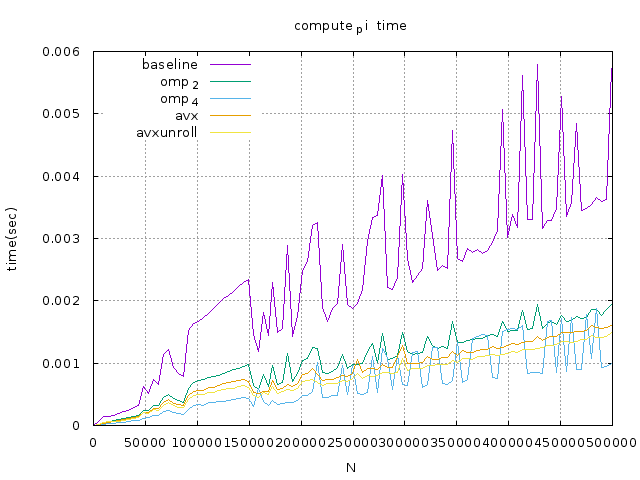
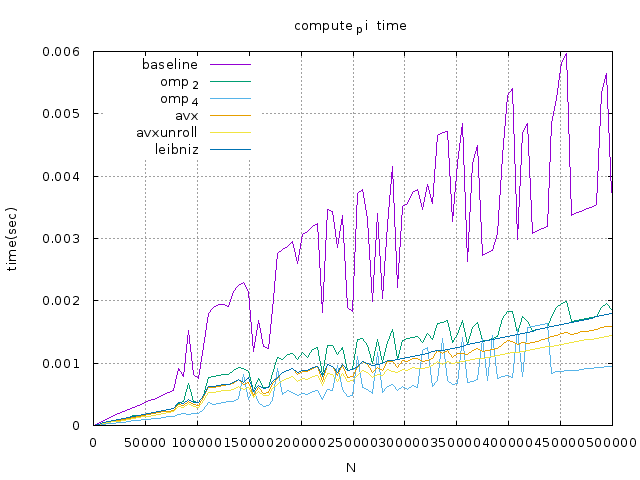
add leibniz

diff --git a/benchmark_clock_gettime.c b/benchmark_clock_gettime.c
@@ -79,7 +79,21 @@ int main(int argc, char const *argv[])
         (end.tv_nsec - start.tv_nsec)/ONE_SEC;
     } 
     printf("%lf,",compute_ci(compute_time));
-    printf("%.16lf\n", compute_error(compute_pi_avx_unroll(N)));
+    printf("%.16lf,", compute_error(compute_pi_avx_unroll(N)));
+    
+    // leibniz baseline
+    for(i = 0; i < loop; i++) {
+        clock_gettime(CLOCK_ID, &start);
+        compute_pi_leibniz(N);
+        clock_gettime(CLOCK_ID, &end);
+        compute_time[i] = (double) (end.tv_sec - start.tv_sec) +
+        (end.tv_nsec - start.tv_nsec)/ONE_SEC;
+    }
+    printf("%lf,",compute_ci(compute_time));
+    printf("%.16lf\n", compute_error(compute_pi_leibniz(N)));
+
+
+
     return 0;
 }
 

diff --git a/computepi.c b/computepi.c
@@ -2,7 +2,7 @@
 #include <immintrin.h>
 #include <omp.h>
 #include "computepi.h"
-
+#include "math.h"
 double compute_pi_baseline(size_t N)
 {
     double pi = 0.0;
@@ -115,5 +115,15 @@ double compute_pi_avx_unroll(size_t N)
           tmp2[0] + tmp2[1] + tmp2[2] + tmp2[3] +
           tmp3[0] + tmp3[1] + tmp3[2] + tmp3[3] +
           tmp4[0] + tmp4[1] + tmp4[2] + tmp4[3];
+    return pi * 4.0;
+}
+
+double compute_pi_leibniz(size_t N)
+{
+    double pi = 0.0;
+    for (size_t i = 0; i < N; i++) {
+        int k = (i%2) ? -1 : 1;
+        pi += (double)k / (2*i + 1);
+    }
     return pi * 4.0;
 }

diff --git a/time_test.c b/time_test.c
@@ -25,6 +25,10 @@ int main(int argc, char const *argv[])
 #if defined(AVXUNROLL)
     pi = compute_pi_avx_unroll(N);
 #endif
+
+#if defined(LEIBNIZ)
+    pi = compute_pi_leibniz(N);
+#endif
     printf("N = %d , pi = %lf\n", N, pi);
 
     return 0;

diff --git a/computepi.h b/computepi.h
@@ -4,3 +4,4 @@ double compute_pi_baseline(size_t N);
 double compute_pi_openmp(size_t N, int threads);
 double compute_pi_avx(size_t N);
 double compute_pi_avx_unroll(size_t N);
+double compute_pi_leibniz(size_t N);
